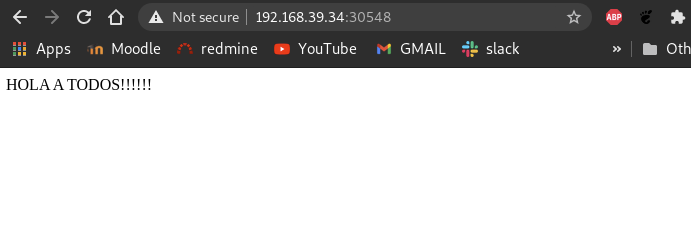
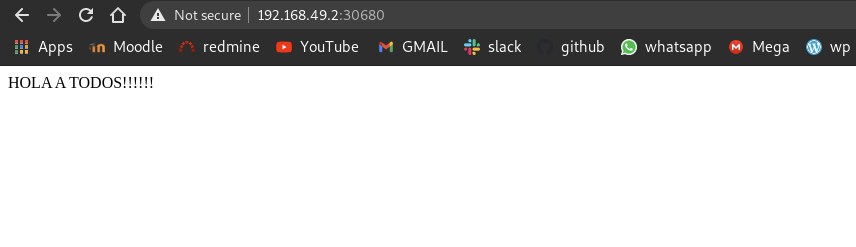
commit automático

diff --git a/content/posts/sistemas/kubernetes/index.md b/content/posts/sistemas/kubernetes/index.md
@@ -263,10 +263,10 @@ Ahora vamos a exponer el puerto 80 de nuestro nginx especificando un tipo NodePo
 ```shell 
 celiagm@debian:~/kubernetes$ kubectl expose deployment web-nginx --port=80 --type=NodePort
 service/web-nginx exposed
-celiagm@debian:~/kubernetes$ kubectl get services
-NAME         TYPE        CLUSTER-IP     EXTERNAL-IP   PORT(S)        AGE
-kubernetes   ClusterIP   10.96.0.1      <none>        443/TCP        24m
-web-nginx    NodePort    10.98.13.146   <none>        80:30548/TCP   5s
+celiagm@debian:~/github/onebit$ kubectl get services
+NAME         TYPE        CLUSTER-IP      EXTERNAL-IP   PORT(S)        AGE
+kubernetes   ClusterIP   10.96.0.1       <none>        443/TCP        10m
+web-nginx    NodePort    10.106.84.137   <none>        80:30680/TCP   9m34s
 ```
 
 De manera que podemos acceder a la ip de minkube con el puerto asignado y debería de verse la página inidial de nuestro Nginx, que en este caso la modificamos en el [post anterior](https://www.celiagm.es/posts/sistemas/docker/) con Docker.
